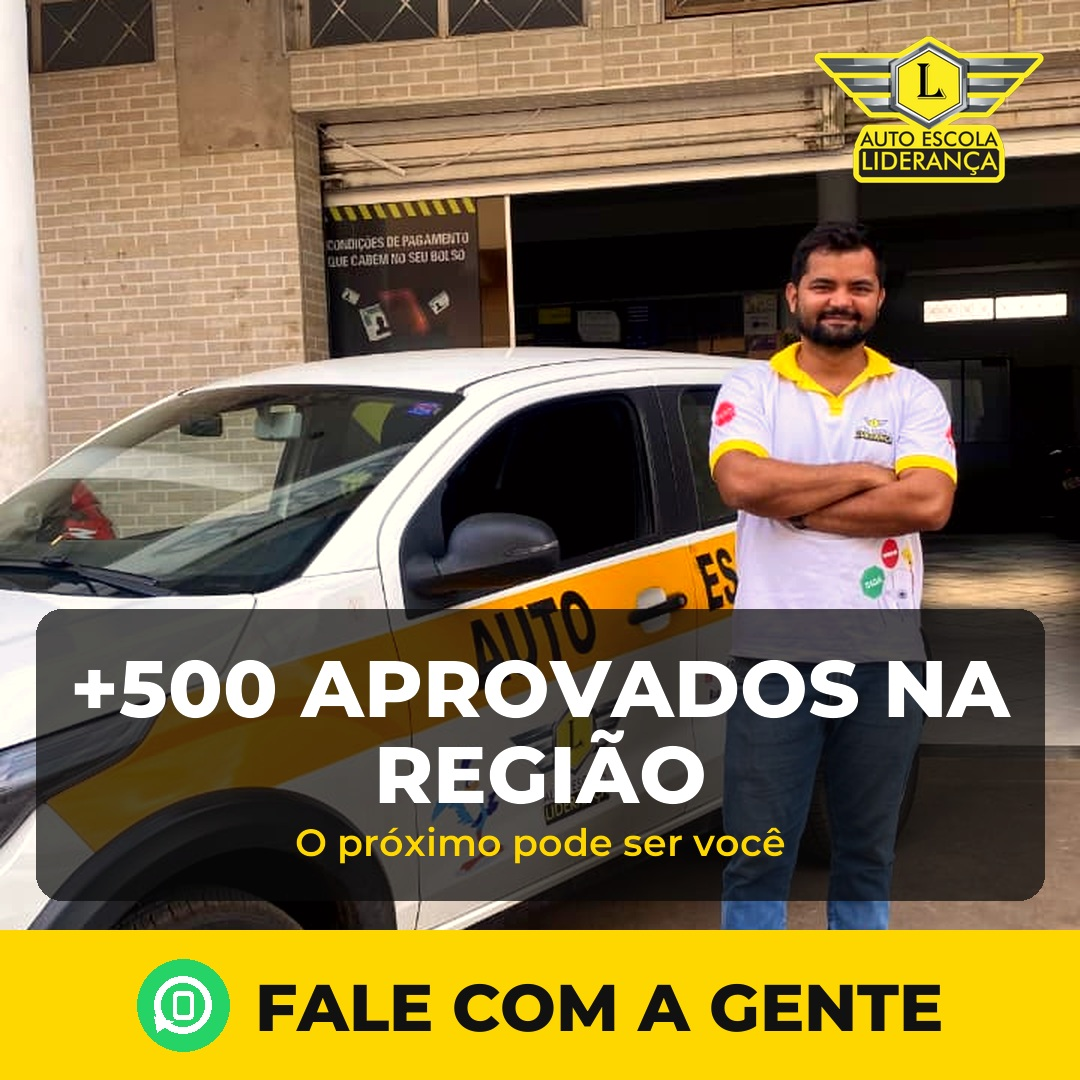
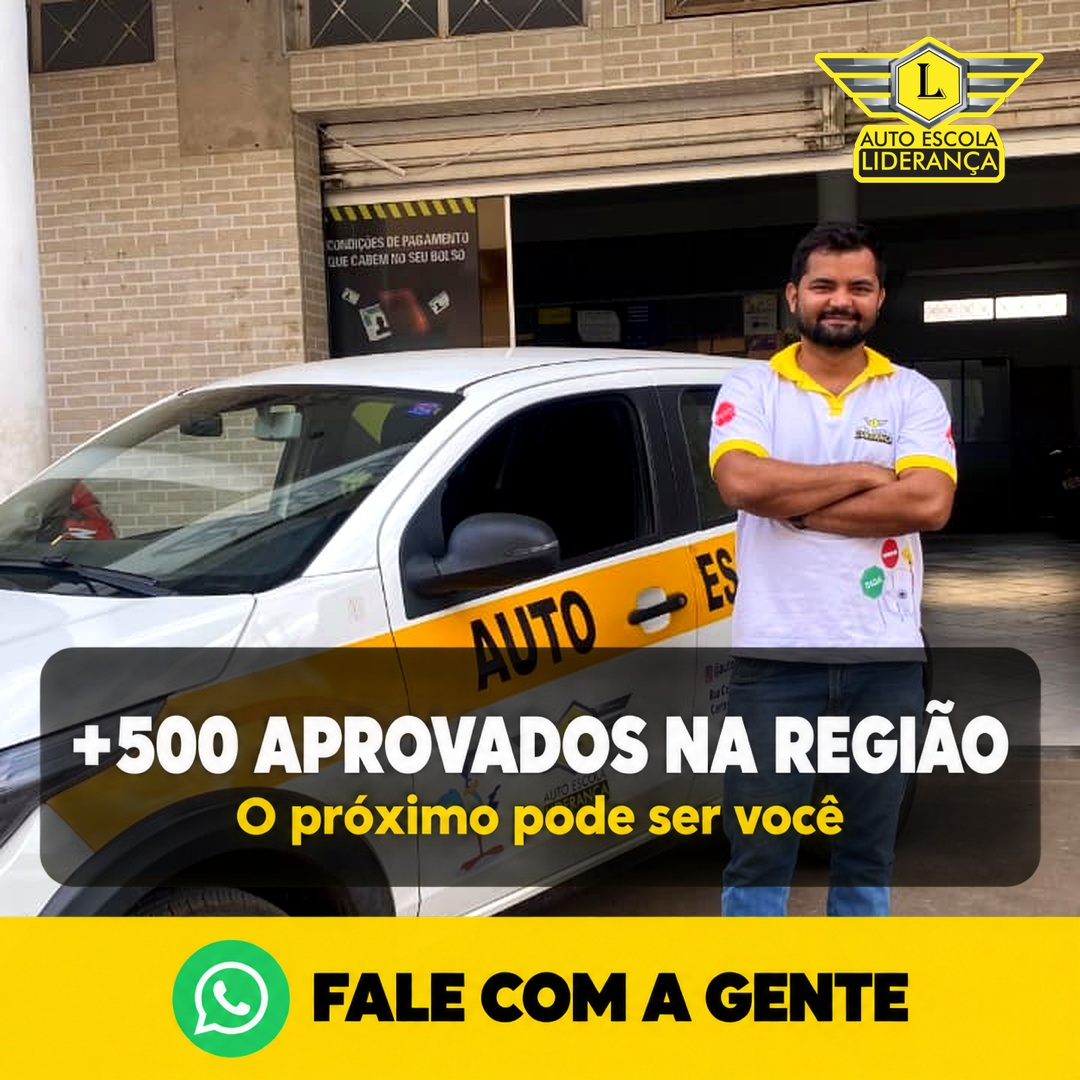
fix: 2ª leva com arte do Codex sobre fotos reais — AD14-AD19 refeitos
Camada de design (painéis, selos, faixa com ícone oficial do WhatsApp)
gerada pelo Codex em PNG transparente e encaixada sobre a foto real;
logo oficial em alta. AD14 passa a usar a segunda foto real do Gabriel
(sem entulho), eliminando a montagem. Bases e overlays versionados.

Changed region(s): [[0.0, 0.55, 1.0, 0.9778]]

diff --git a/06-CRIATIVOS-ADS/preview-criativos-outubro.html b/06-CRIATIVOS-ADS/preview-criativos-outubro.html
@@ -693,7 +693,7 @@ Calma. Aqui na Liderança a gente cuida de tudo pra você — do primeiro contat
   <div class="section-label">2ª leva · aspecto 100% fotográfico</div>
   <h2>Fotos reais <span>retocadas</span></h2>
   <p class="section-desc">Aqui não há nada gerado: são as fotos originais da autoescola com recorte, limpeza de fundo, recomposição sobre a fachada real e acerto de cor — e, por cima, a arte da Liderança com a logo oficial em alta. Objetivo: testar foto real contra os designs e descobrir qual gera conversa mais barata.</p>
-  <div class="tip tip-green"><strong>Como foi feito:</strong> recorte do assunto (pessoa + veículo) na foto original, remoção do fundo com problema, recomposição sobre outra foto real da própria autoescola, sombra e correção de cor. Onde o fundo original já servia, só corte e cor.</div>
+  <div class="tip tip-green"><strong>Como foi feito:</strong> a foto é sempre real — do cliente, com corte, foco e correção de cor. A camada de arte (painéis de texto, selos, faixa amarela com o ícone oficial do WhatsApp) é desenhada pelo gerador de imagens como PNG transparente e encaixada por cima da foto; a logo é a oficial, em alta, extraída do PDF do cliente. Textos conferidos palavra por palavra.</div>
 
   <!-- === AD 14 — FOTO RETOCADA === -->
   <div class="cr" data-k="N">
@@ -701,7 +701,7 @@ Calma. Aqui na Liderança a gente cuida de tudo pra você — do primeiro contat
     <div>
       <h3>14 — Gabriel + carro — Brasília de Minas (foto retocada)</h3>
       <div class="badges"><span class="badge b-a">Campanha única</span><span class="badge b-g">Foto real retocada</span><span class="badge b-t">2ª leva</span></div>
-      <div class="blk"><h4>O que foi feito</h4><p>Gabriel e o carro recortados da foto original e recompostos sobre a foto real da fachada de BM — saíram o entulho, a obra ao lado e o chão molhado; sombra e cor acertadas. Por cima, a arte da Liderança: título em uma linha para não cobrir a placa, e faixa de WhatsApp. Nenhum elemento gerado.</p></div>
+      <div class="blk"><h4>O que foi feito</h4><p>Foto real do Gabriel com o carro em frente à fachada de BM — uma segunda foto enviada pelo cliente, já sem entulho, sem montagem. Cor acertada. A camada de arte (painel de texto e faixa de WhatsApp com ícone oficial) foi desenhada pelo gerador de imagens em PNG transparente e encaixada por cima; a placa fica inteira à vista.</p></div>
       <div class="blk"><h4>Onde aparece</h4>
         <div class="place">
           <div class="row"><b>Feed Instagram + Facebook</b><span class="f">1:1 · 1080×1080</span><code>retoque/real-14-gabriel-bm.jpg</code></div>
@@ -738,7 +738,7 @@ Calma. Aqui na Liderança a gente cuida de tudo pra você — do primeiro contat
     <div>
       <h3>15 — Rafael + carro — Coração de Jesus (foto retocada)</h3>
       <div class="badges"><span class="badge b-a">Campanha única</span><span class="badge b-g">Foto real retocada</span><span class="badge b-t">2ª leva</span></div>
-      <div class="blk"><h4>O que foi feito</h4><p>Foto original do Rafael na fachada de CJ, com cor e contraste acertados, logo oficial no canto e o bloco de texto embaixo para deixar o rosto livre.</p></div>
+      <div class="blk"><h4>O que foi feito</h4><p>Foto real do Rafael na fachada de CJ, cor e contraste acertados. Camada de arte desenhada pelo gerador (painel + faixa de WhatsApp com ícone oficial) e a logo oficial do cliente no canto. Rosto livre.</p></div>
       <div class="blk"><h4>Onde aparece</h4>
         <div class="place">
           <div class="row"><b>Feed Instagram + Facebook</b><span class="f">1:1 · 1080×1080</span><code>retoque/real-15-rafael-cj.jpg</code></div>
@@ -775,7 +775,7 @@ Calma. Aqui na Liderança a gente cuida de tudo pra você — do primeiro contat
     <div>
       <h3>16 — Caminhão Ford Cargo 712 (foto retocada)</h3>
       <div class="badges"><span class="badge b-a">Campanha única</span><span class="badge b-g">Foto real retocada</span><span class="badge b-t">2ª leva</span></div>
-      <div class="blk"><h4>O que foi feito</h4><p>Caminhão real em foco com o fundo desfocado (fiação e casas somem), selo Cat. D e E, logo oficial e bloco de texto sobre a grade.</p></div>
+      <div class="blk"><h4>O que foi feito</h4><p>Caminhão real em foco com o fundo desfocado (fiação e casas somem). Selo Cat. D e E, painel e faixa de WhatsApp desenhados pelo gerador; logo oficial no canto.</p></div>
       <div class="blk"><h4>Onde aparece</h4>
         <div class="place">
           <div class="row"><b>Feed Instagram + Facebook</b><span class="f">1:1 · 1080×1080</span><code>retoque/real-16-caminhao.jpg</code></div>
@@ -815,7 +815,7 @@ A gente facilita tudo: matrícula, aulas e exame — sem complicação. ✅
     <div>
       <h3>17 — Moto Yamaha Factor (foto retocada)</h3>
       <div class="badges"><span class="badge b-a">Campanha única</span><span class="badge b-g">Foto real retocada</span><span class="badge b-t">2ª leva</span></div>
-      <div class="blk"><h4>O que foi feito</h4><p>Moto real com o tanque e a marca em foco, fundo suavizado, logo oficial e bloco de texto embaixo. Alternativa de detalhe para quem busca Categoria A.</p></div>
+      <div class="blk"><h4>O que foi feito</h4><p>Moto real com o tanque e a marca em foco, fundo suavizado. Painel e faixa desenhados pelo gerador; logo oficial no canto. Alternativa de detalhe para quem busca Categoria A.</p></div>
       <div class="blk"><h4>Onde aparece</h4>
         <div class="place">
           <div class="row"><b>Feed Instagram + Facebook</b><span class="f">1:1 · 1080×1080</span><code>retoque/real-17-moto.jpg</code></div>
@@ -855,7 +855,7 @@ Na Liderança, você aprende no seu ritmo.
     <div>
       <h3>18 — Aprovados Cat. B — alunos reais (foto retocada)</h3>
       <div class="badges"><span class="badge b-a">Campanha única</span><span class="badge b-g">Foto real retocada</span><span class="badge b-t">2ª leva</span></div>
-      <div class="blk"><h4>O que foi feito</h4><p>Alunos reais extraídos do post antigo, sem moldura nem arte do semáforo. Selo Categoria B, logo oficial e bloco de texto embaixo, acima do rodapé — os rostos e as aprovações ficam à vista.</p></div>
+      <div class="blk"><h4>O que foi feito</h4><p>Alunos reais extraídos do post antigo, sem moldura nem arte do semáforo. Selo Categoria B, painel e faixa desenhados pelo gerador; logo oficial no canto. Rostos e aprovações à vista.</p></div>
       <div class="blk"><h4>Onde aparece</h4>
         <div class="place">
           <div class="row"><b>Feed Instagram + Facebook</b><span class="f">1:1 · 1080×1080</span><code>retoque/real-18-aprovados.jpg</code></div>
@@ -898,7 +898,7 @@ Sem complicação, sem enrolação.
     <div>
       <h3>19 — Fachada Brasília de Minas (foto retocada)</h3>
       <div class="badges"><span class="badge b-a">Campanha única</span><span class="badge b-g">Foto real retocada</span><span class="badge b-t">2ª leva</span></div>
-      <div class="blk"><h4>O que foi feito</h4><p>Fachada real de BM com a rua estendida para fechar o quadrado e a placa inteira visível. Texto das duas cidades embaixo, sem cobrir a placa.</p></div>
+      <div class="blk"><h4>O que foi feito</h4><p>Fachada real de BM com a rua estendida para fechar o quadrado e a placa inteira visível. Painel com as duas cidades e faixa de matrícula desenhados pelo gerador, sem cobrir a placa.</p></div>
       <div class="blk"><h4>Onde aparece</h4>
         <div class="place">
           <div class="row"><b>Feed Instagram + Facebook</b><span class="f">1:1 · 1080×1080</span><code>retoque/real-19-fachada-bm.jpg</code></div>
@@ -976,8 +976,8 @@ Calma. Aqui na Liderança a gente cuida de tudo pra você — do primeiro contat
 │   ├── real-17-moto.jpg                 <i>AD17 &middot; CJ / BM</i>
 │   ├── real-18-aprovados.jpg            <i>AD18 &middot; CJ / BM</i>
 │   ├── real-19-fachada-bm.jpg           <i>AD19 &middot; BM</i>
-│   ├── foto-07-gabriel-bm-retocada.jpg  <i>base do AD14 (sem arte)</i>
-│   └── foto-fachada-bm-1x1.jpg          <i>base do AD19 (sem arte)</i>
+│   ├── base-14.jpg … base-19.jpg        <i>fotos preparadas, sem arte</i>
+│   └── ../overlays/ov-14.png … ov-19.png <i>camadas de arte (PNG transparente)</i>
 ├── estrategia-outubro.html              <i>Estrat&eacute;gia completa das 3 campanhas</i>
 ├── preview-criativos-outubro.html       <i>Esta p&aacute;gina</i>
 ├── roteiros-gabriel.html                <i>Roteiros de v&iacute;deo &mdash; BM</i>
